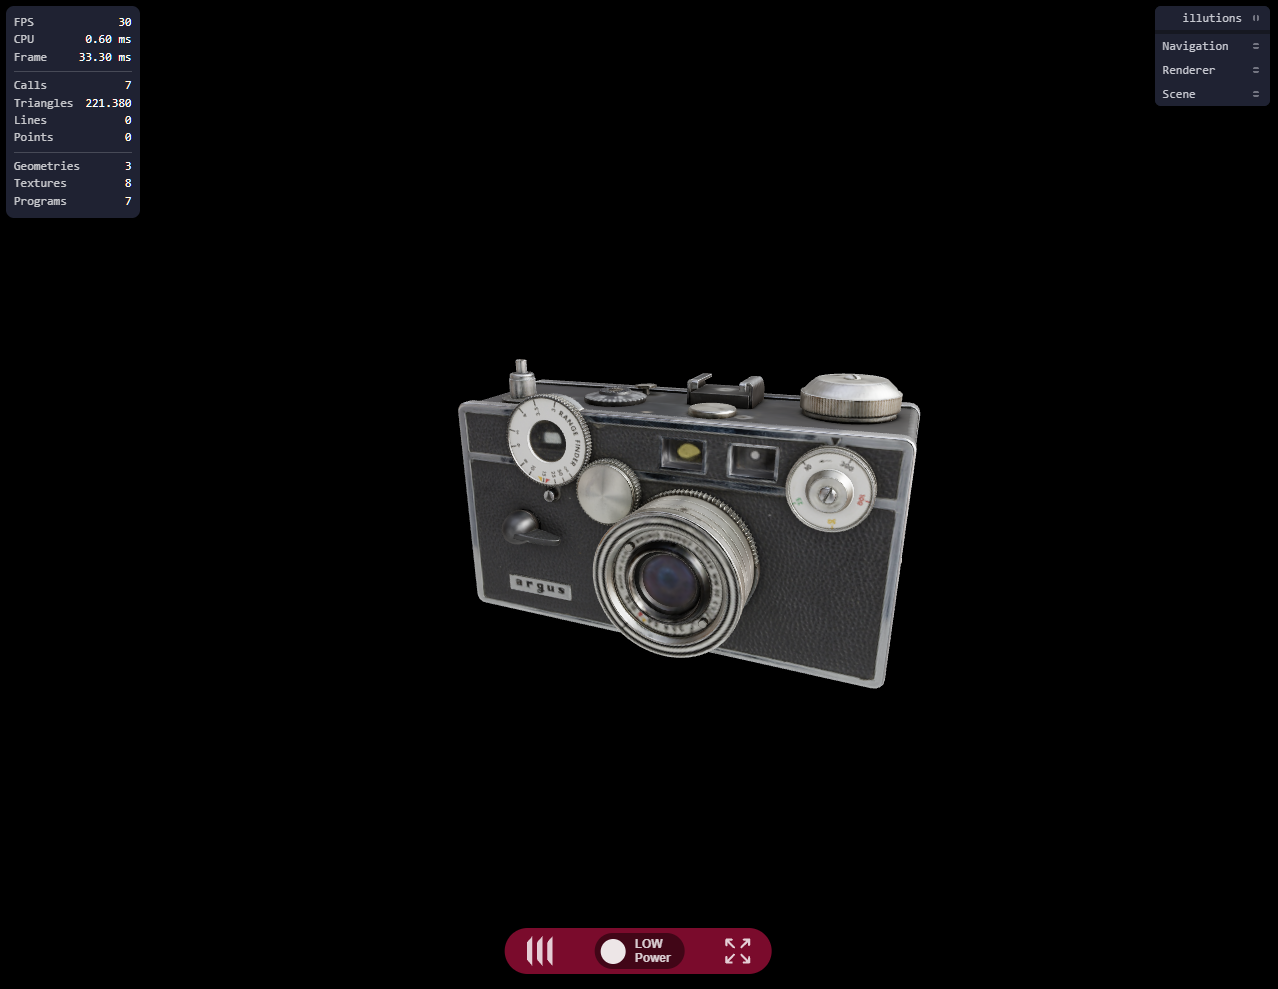
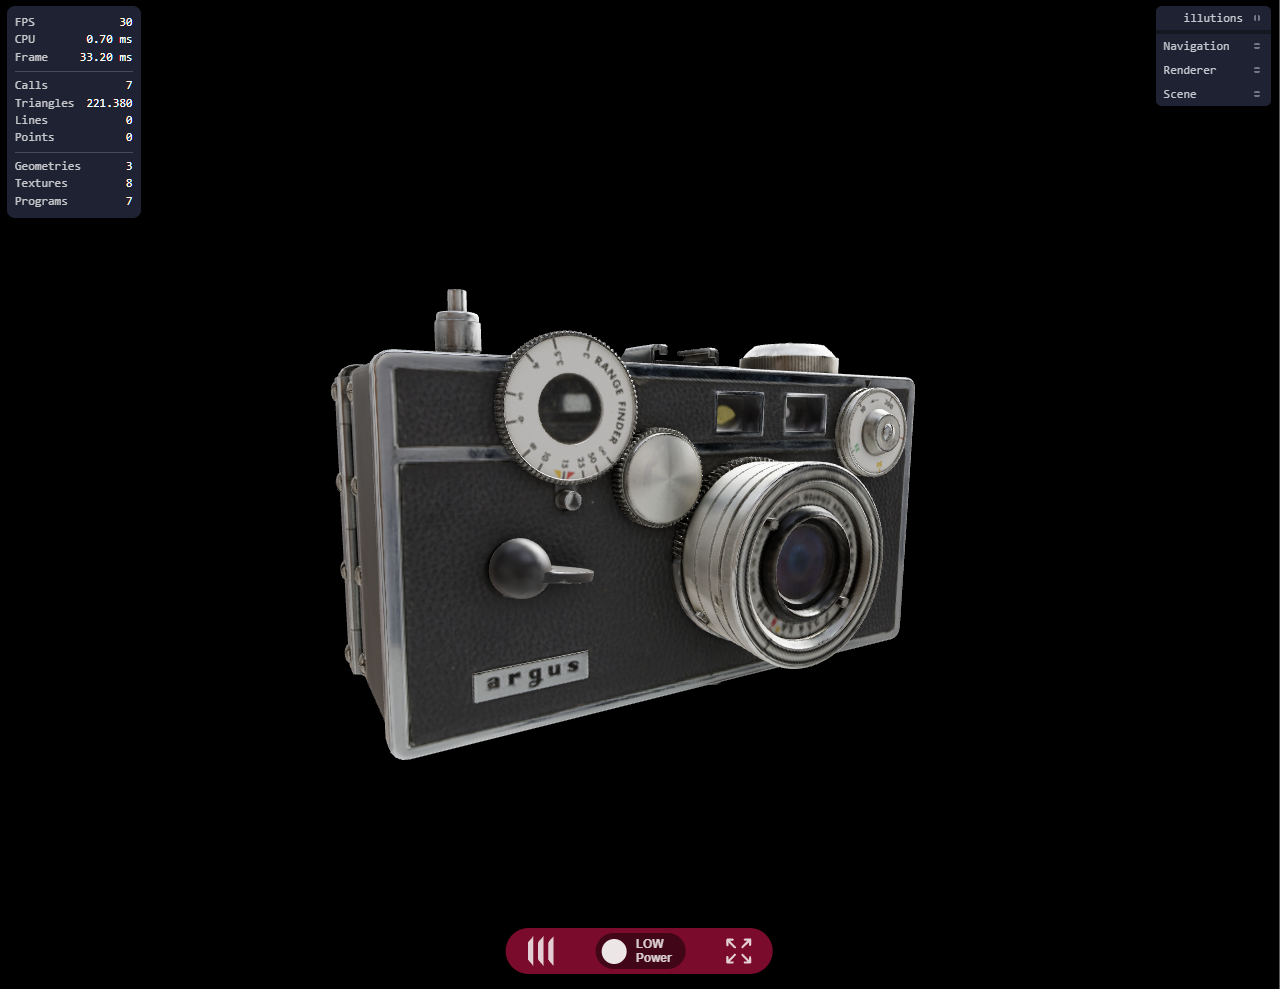
chore: Optimize screenshot

diff --git a/src/index.ts b/src/index.ts
@@ -1,25 +1,26 @@
 import { App, cfg } from 'illutions';
 
-// Configures the cameras position.
-cfg.cam.position = { x: 0, y: 1, z: 3 }
+// Set cameras position
+cfg.cam.position = { x: -2.25, y: 0.25, z: 0 }
 
-// Configures how the camera rotates, pans and zooms around a target.
+// Set how camera rotates, pans and zooms around a target
 cfg.orbitCtrls.enable = true;
 cfg.orbitCtrls.autoRotate = true;
 cfg.orbitCtrls.maxDistance = 10;
 cfg.orbitCtrls.minDistance = 2;
 
-// Configures GLTF/GLB model loading.
+// Load GLTF/GLB model
 cfg.model.file = 'scene/argus_camera.glb';
 
-// Configures the scene environment map.
+// Set scene environment map
 cfg.envCtrls.enable = true;
 cfg.envCtrls.map = 'scene/brown_photostudio_02_1k.exr';
 
-// Configures the rendering backend.
+// Set rendering backend
 cfg.render.api = 'webgl';
 cfg.render.webgl.parameters.antialias = true;
 
 document.addEventListener('DOMContentLoaded', () => {
+  // Run illutions engine
   App.run(cfg);
-});
+}); 